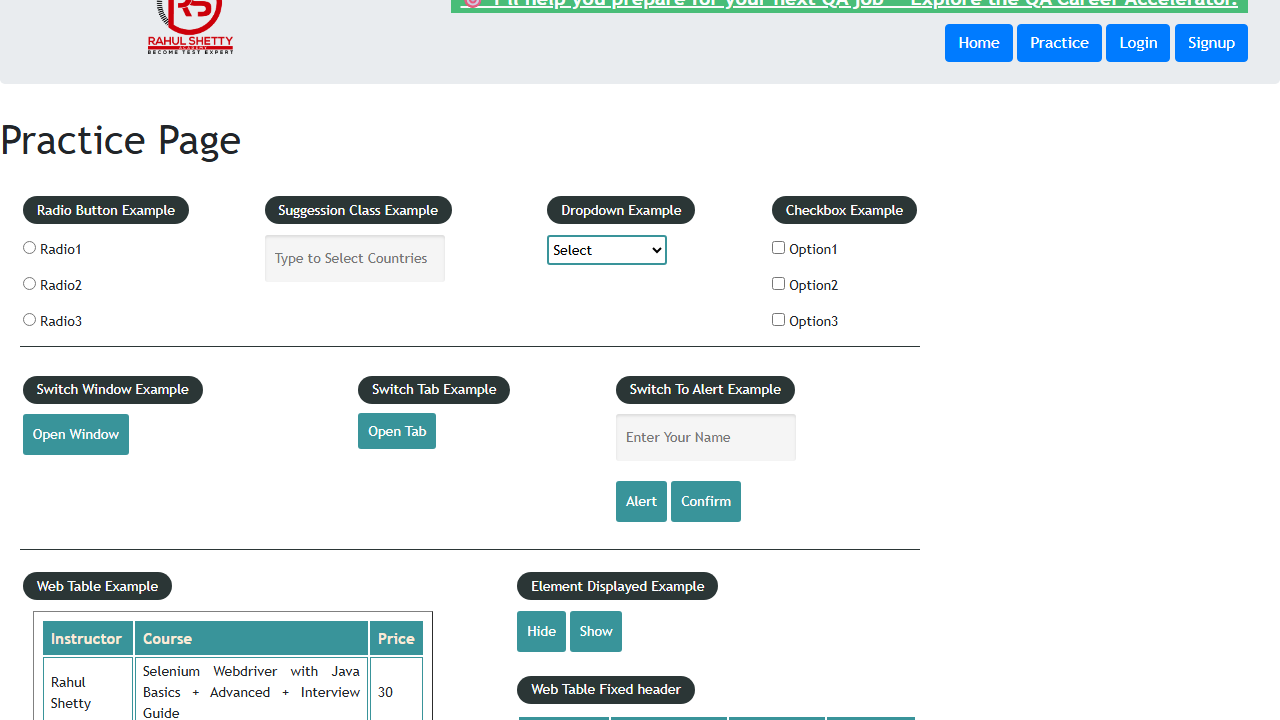
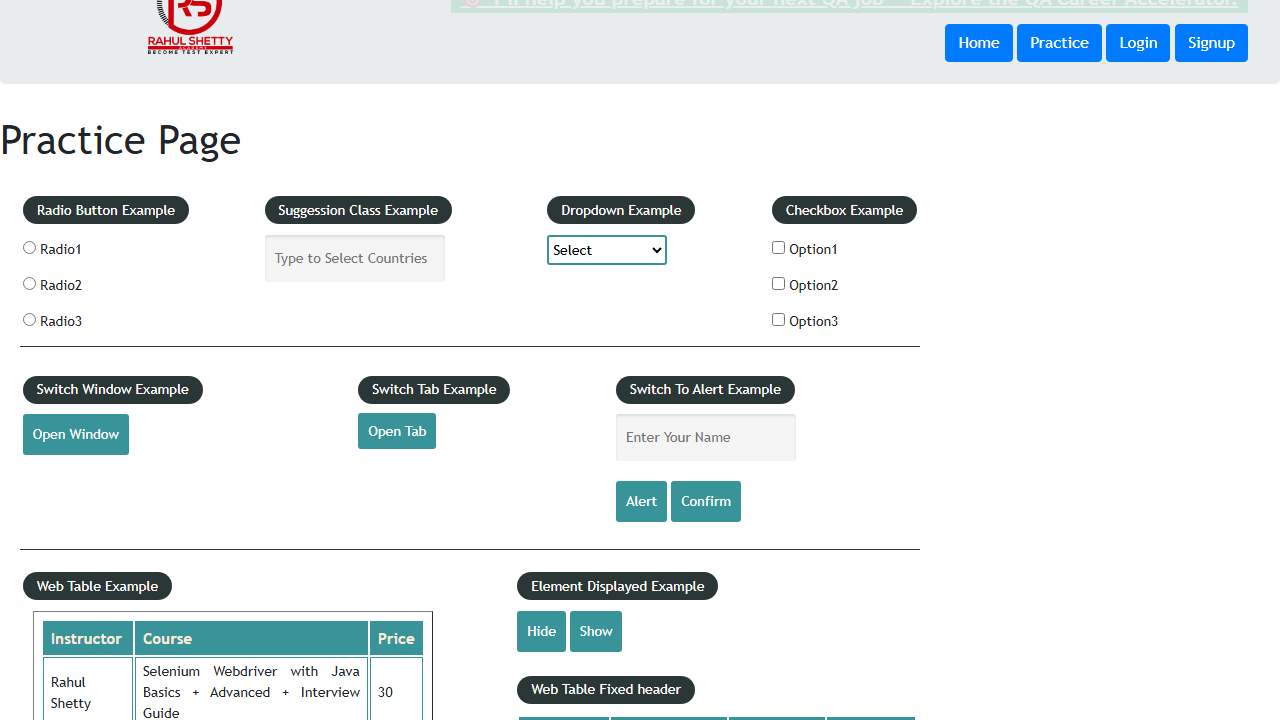
pull request check

Changed region(s): [[0.3438, 0.0, 1.0, 0.0306]]

diff --git a/tests/e2euniqueselector.spec.js b/tests/e2euniqueselector.spec.js
@@ -25,5 +25,6 @@ await expect(page.locator('.user__name [type="text"]').first()).toHaveText(email
 await page.getByText("PLACE ORDER").click(); 
 // const orderConfirmation = await page.locator(".hero-primary").waitFor();
 await expect(page.getByText(" Thankyou for the order. ")).toBeVisible();
+//test pull request
 
 });

diff --git a/pageobjects/POManager.js b/pageobjects/POManager.js
@@ -1,4 +1,4 @@
-const LoginPage = require('./LoginPage');
+const {LoginPage} = require('./LoginPage');
 const {DashboardPage} = require('./DashboardPage');
 const{cartPage} = require('./cartPage');
 const{CheckoutPage} = require('./CheckoutPage');
